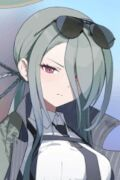
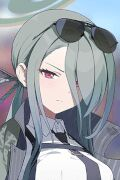
update no longer npc students (Reisa, Mina, Rumi)

diff --git a/src/js/data/2023-05-01.js b/src/js/data/2023-05-01.js
@@ -296,7 +296,7 @@ dataSet[dataSetVersion].characterData = [
     }
   },
   {
-    name: "Kuwakamo Kaho",
+    name: "Kuwakami Kaho",
     img: "kaho.jpg",
     opts: {
       school: ["Hyakkiyako"]
@@ -649,26 +649,24 @@ dataSet[dataSetVersion].characterData = [
       dupes: true
     }
   },
+  {
+    name: "Konoe Mina",
+    img: "mina.jpg",
+    opts: {
+      school: ["Shanhaijing"]
+    }
+  },
+  {
+    name: "Akeshiro Rumi",
+    img: "rumi.jpg",
+    opts: {
+      school: ["Shanhaijing"]
+    }
+  },
   //--npc
   {
     name: "Kisaki",
     img: "kisaki.jpg",
-    opts: {
-      school: ["Shanhaijing"],
-    NPC: true
-    }
-  },
-  {
-    name: "Mina",
-    img: "mina.jpg",
-    opts: {
-      school: ["Shanhaijing"],
-    NPC: true
-    }
-  },
-  {
-    name: "Rumi",
-    img: "rumi.jpg",
     opts: {
       school: ["Shanhaijing"],
     NPC: true
@@ -894,6 +892,13 @@ dataSet[dataSetVersion].characterData = [
       school: ["Trinity"]
     }
   },
+  {
+    name: "Uzawa Reisa",
+    img: "reisa.jpg",
+    opts: {
+      school: ["Trinity"]
+    }
+  },
   //--npc
   {
     name: "Ichika",
@@ -906,14 +911,6 @@ dataSet[dataSetVersion].characterData = [
   {
     name: "Yurizono Seia",
     img: "seia.jpg",
-    opts: {
-      school: ["Trinity"],
-    NPC: true
-    }
-  },
-  {
-    name: "Uzawa Reisa",
-    img: "reisa.jpg",
     opts: {
       school: ["Trinity"],
     NPC: true

diff --git a/index.html b/index.html
@@ -82,10 +82,10 @@
         
          <p><b>Latest Changes:</b></p>
          <p>
-			Update portrait: Nagisa, Sakurako, Koyuki<br />
-			Add NPCs: Goryou Nagusa, Shiroko Terror, Plana, Kiyosumi Akira<br />
-			No longer NPC: Megu, Kanna, Sakurako, Toki, Nagisa, Koyuki, Kaho<br />
-			Swapped characters name: Otogi & Kurumi.
+			Fix naming typo (Kuwakamo Kaho -> Kuwakami Kaho)<br />
+			Update portrait: Reisa, Rumi, Mina<br />
+			No longer NPCs: Reisa, Rumi, Mina<br />
+			Newly added NPC: Kiyosumi Akira
          </p>
         
 		<hr style="width:61%">
